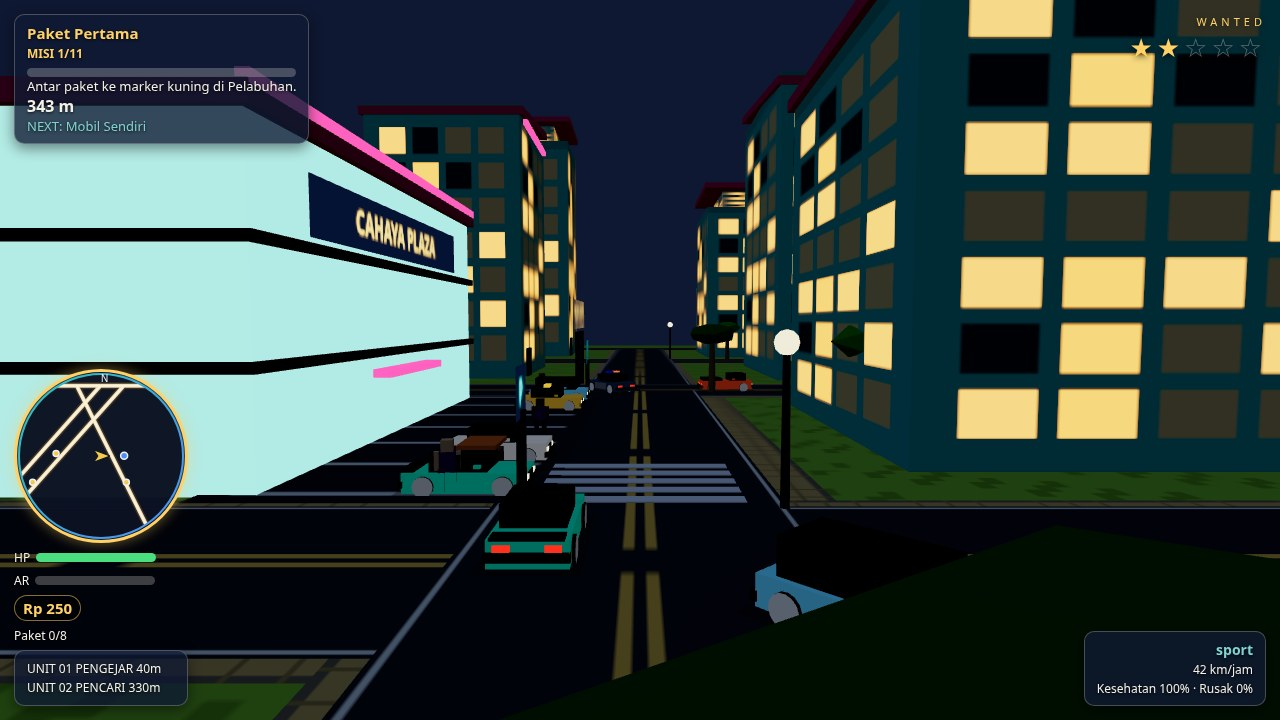
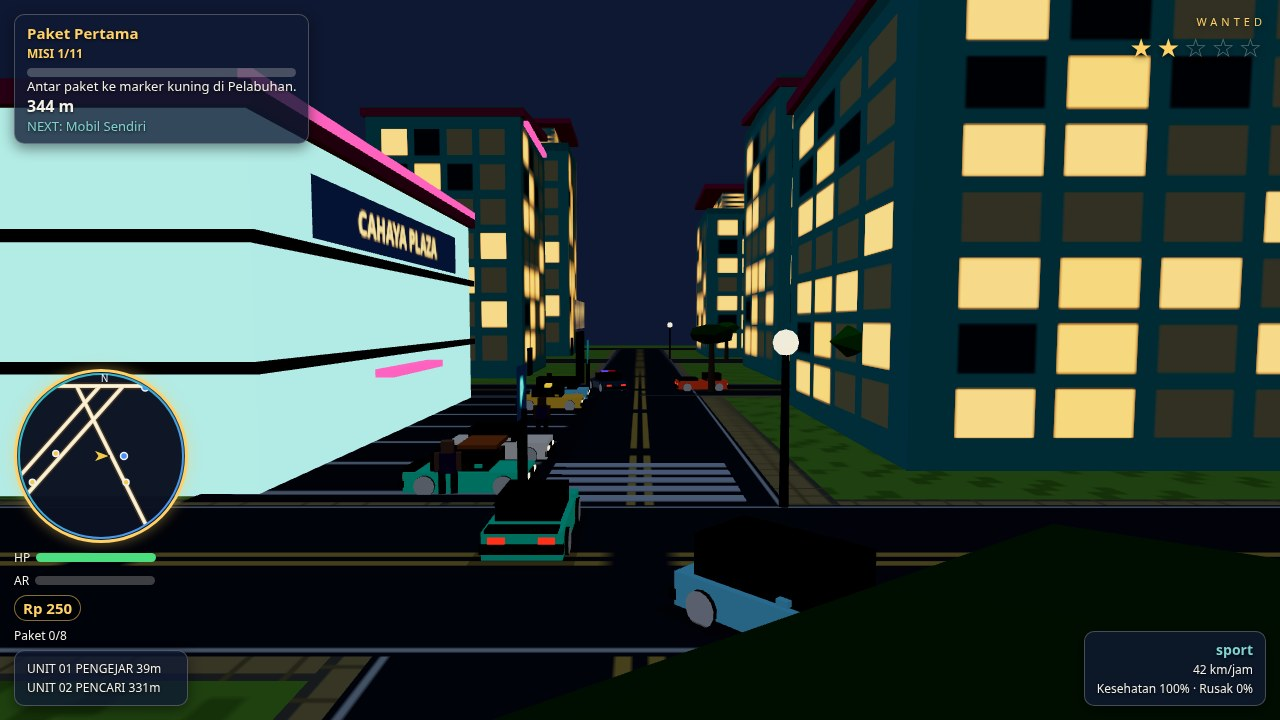
M29: tabrakan mobil parkir + aturan belok (slowdown + yield kanan)

diff --git a/game/src/traffic.js b/game/src/traffic.js
@@ -6,28 +6,29 @@ const LANE = 2.5; // offset lajur kanan dari as jalan (CP17)
 const CAR_GAP = 4.4; // jarak pusat minimum antar mobil (CP17)
 let sepFrame = 0;
 
-// Dorong-pisah mobil bergerak (CP17); parkir (driver null) dikecualikan.
+// Dorong-pisah (CP17+M29a): parkir diam.
 function separateCars(cars) {
   sepFrame++;
   for (let i = 0; i < cars.length; i++) {
     const a = cars[i];
-    if (!a || a.driver == null || !a.pos) continue;
+    if (!a || !a.pos) continue;
     for (let j = i + 1; j < cars.length; j++) {
       const b = cars[j];
-      if (!b || b.driver == null || !b.pos) continue;
+      if (!b || !b.pos) continue;
+      if (!a.driver && !b.driver) continue;
       const dx = b.pos.x - a.pos.x;
       const dz = b.pos.z - a.pos.z;
       const d2 = dx * dx + dz * dz;
       if (d2 >= CAR_GAP * CAR_GAP || d2 < 1e-8) continue;
       const d = Math.sqrt(d2);
       const nx = dx / d, nz = dz / d;
-      const push = (CAR_GAP - d) / 2;
-      a.pos.x -= nx * push; a.pos.z -= nz * push;
-      b.pos.x += nx * push; b.pos.z += nz * push;
+      const push = (CAR_GAP - d) / (a.driver && b.driver ? 2 : 1);
+      if (a.driver) { a.pos.x -= nx * push; a.pos.z -= nz * push; }
+      if (b.driver) { b.pos.x += nx * push; b.pos.z += nz * push; }
       const avx = Math.sin(a.heading) * a.speed, avz = Math.cos(a.heading) * a.speed;
       const bvx = Math.sin(b.heading) * b.speed, bvz = Math.cos(b.heading) * b.speed;
       const closing = (avx - bvx) * nx + (avz - bvz) * nz;
-      if (closing > 6) {
+      if (closing > 6 && a.driver && b.driver) {
         if (sepFrame - (a._sepDmg || 0) > 30) {
           a.health = Math.max(0, a.health - Math.min(15, (closing - 6) * 1.2));
           a._sepDmg = sepFrame;
@@ -97,7 +98,6 @@ export function createTraffic(scene, graph, fleet, rng) {
       state: 'route',
       blockedTimer: 0,
       pullTarget: null,
-      repathTimer: 0,
     };
     newRoute(car);
     cars.push(car);
@@ -111,9 +111,11 @@ export function createTraffic(scene, graph, fleet, rng) {
       const dx = other.pos.x - car.pos.x;
       const dz = other.pos.z - car.pos.z;
       const d = Math.hypot(dx, dz);
-      if (d < 8 && d > 0.01) {
+      if (d < 14 && d > 0.01) {
         const dot = (dx * fx + dz * fz) / d;
-        if (dot > 0.7) return other;
+        const lat = dx * fz - dz * fx;
+        if (d < 8 && dot > 0.7 && Math.abs(lat) < 4) return other;
+        if (dot > -0.2 && other.speed > 0.5 && lat > 0) return other;
       }
     }
     return null;
@@ -183,6 +185,7 @@ export function createTraffic(scene, graph, fleet, rng) {
         } catch (e) {  }
       }
       if (carAhead(car)) wantSpeed = 0;
+      if (t.turn && wantSpeed > 5) wantSpeed = 5;
 
       if (car.speed < 0.5 && !atRedLight) {
         t.blockedTimer += d;
@@ -197,7 +200,6 @@ export function createTraffic(scene, graph, fleet, rng) {
 
       car.speed += clamp(wantSpeed - car.speed, -14 * d, 8 * d);
       if (car.speed < 0.05) car.speed = 0;
-      // Lajur kanan (CP17): waypoint digeser 2,5 ke kanan ruas.
       const pv = t.wp > 0 ? nodePos(graph, t.route[t.wp - 1]) : null;
       let ux = dx, uz = dz;
       if (pv && (wpNode.x !== pv.x || wpNode.z !== pv.z)) {
@@ -206,8 +208,10 @@ export function createTraffic(scene, graph, fleet, rng) {
       } else {
         const dl = dist || 1; ux = dx / dl; uz = dz / dl;
       }
+      const o = car.heading;
       car.heading = turnToward(car.heading,
         Math.atan2(wpNode.x + uz * LANE - car.pos.x, wpNode.z - ux * LANE - car.pos.z), 2.2 * d);
+      t.turn = Math.abs(car.heading - o) > 1.5 * d;
       advance(car, d);
     }
     separateCars(fleet.cars);

diff --git a/game/src/vehicles.js b/game/src/vehicles.js
@@ -153,7 +153,7 @@ export function buildCarMesh(type) {
 }
 
 function syncMesh(car) {
-  // M27: mobil dikemudi -> lajur kiri +2.5 m (sticky _lane); traffic _t tidak.
+  // M27: mobil dikemudi offset kiri 2.5 m (sticky); traffic tidak.
   if (car.driver) car._lane = 1;
   const o = car._lane && !car._t ? 2.5 : 0;
   car.mesh.position.set(car.pos.x + Math.cos(car.heading) * o, 0, car.pos.z - Math.sin(car.heading) * o);
